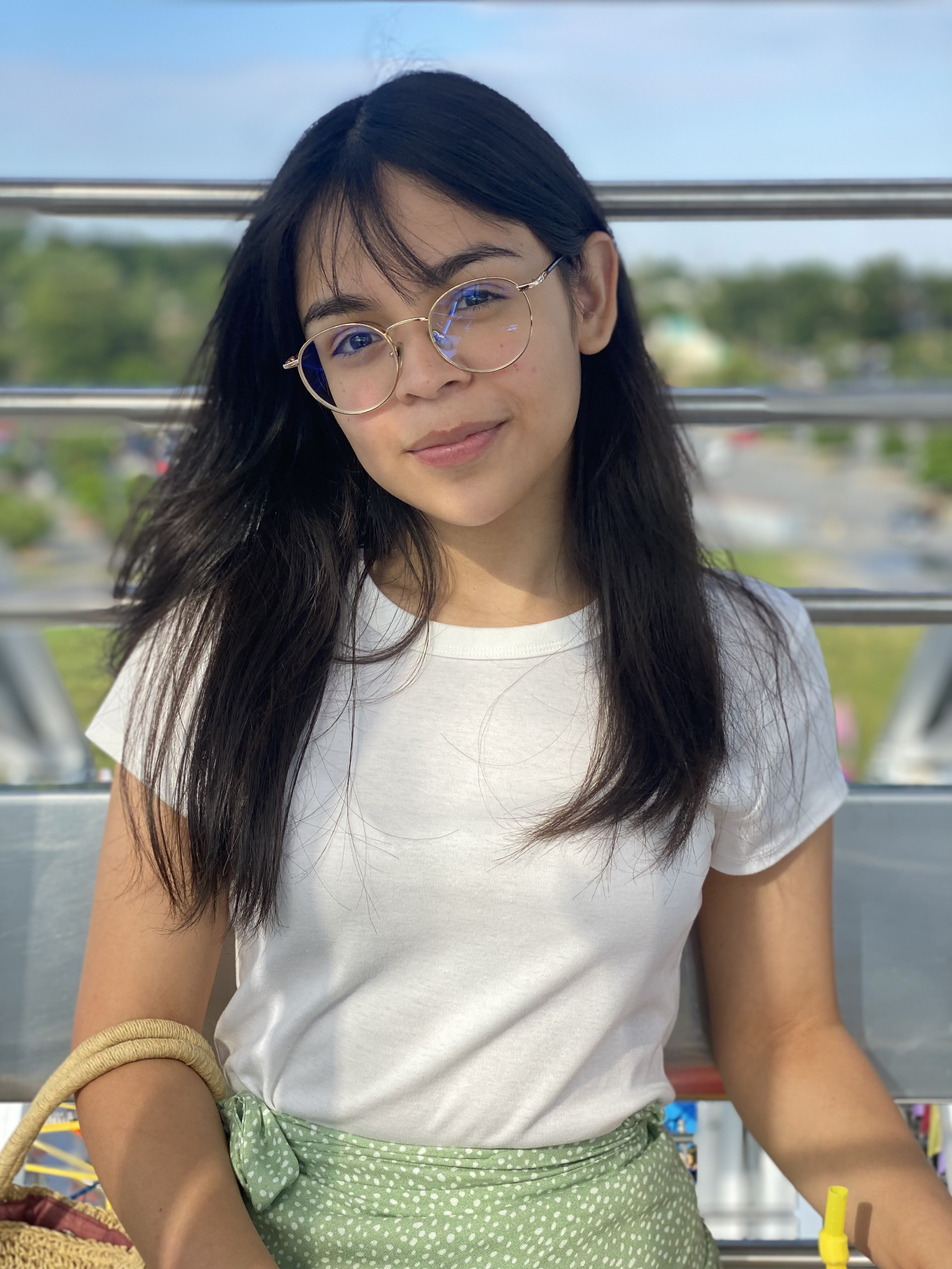
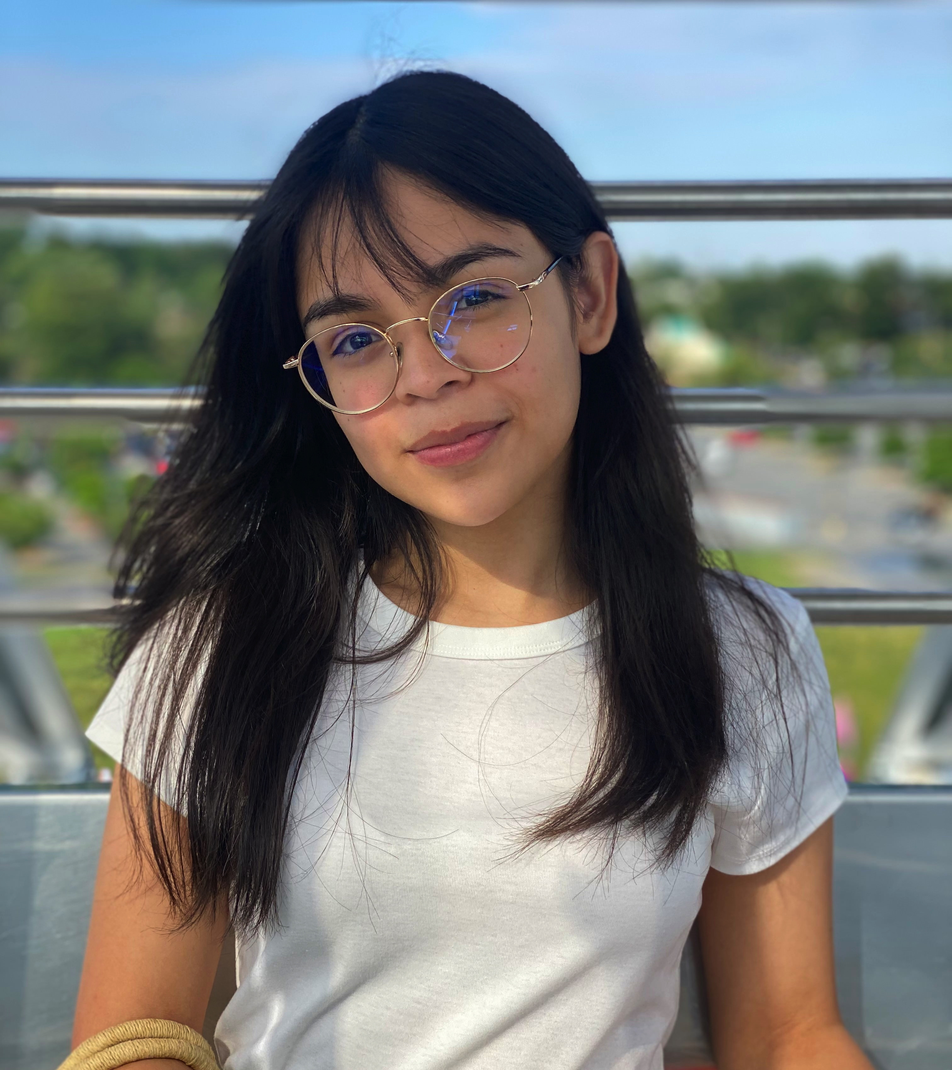
fixed pic

diff --git a/people/index.html b/people/index.html
@@ -701,7 +701,7 @@
         
       
       
-        <a href="/authors/menendez/"><img class="portrait" src="/authors/menendez/avatar_huaf0edd7baf2bc7ab5a2207a5f25a8fce_1308069_150x150_fill_q90_lanczos_center.jpeg" alt="Avatar"></a>
+        <a href="/authors/menendez/"><img class="portrait" src="/authors/menendez/avatar_huc0f162c33f575466f6a71ac71f833a5b_1734348_150x150_fill_q90_lanczos_center.jpeg" alt="Avatar"></a>
       
   
       <div class="portrait-title">

diff --git a/authors/menendez/index.html b/authors/menendez/index.html
@@ -375,7 +375,7 @@
 
       
       
-      <img class="portrait" src="/authors/menendez/avatar_huaf0edd7baf2bc7ab5a2207a5f25a8fce_1308069_250x250_fill_q90_lanczos_center.jpeg" alt="Avatar">
+      <img class="portrait" src="/authors/menendez/avatar_huc0f162c33f575466f6a71ac71f833a5b_1734348_250x250_fill_q90_lanczos_center.jpeg" alt="Avatar">
       
 
       <div class="portrait-title">
